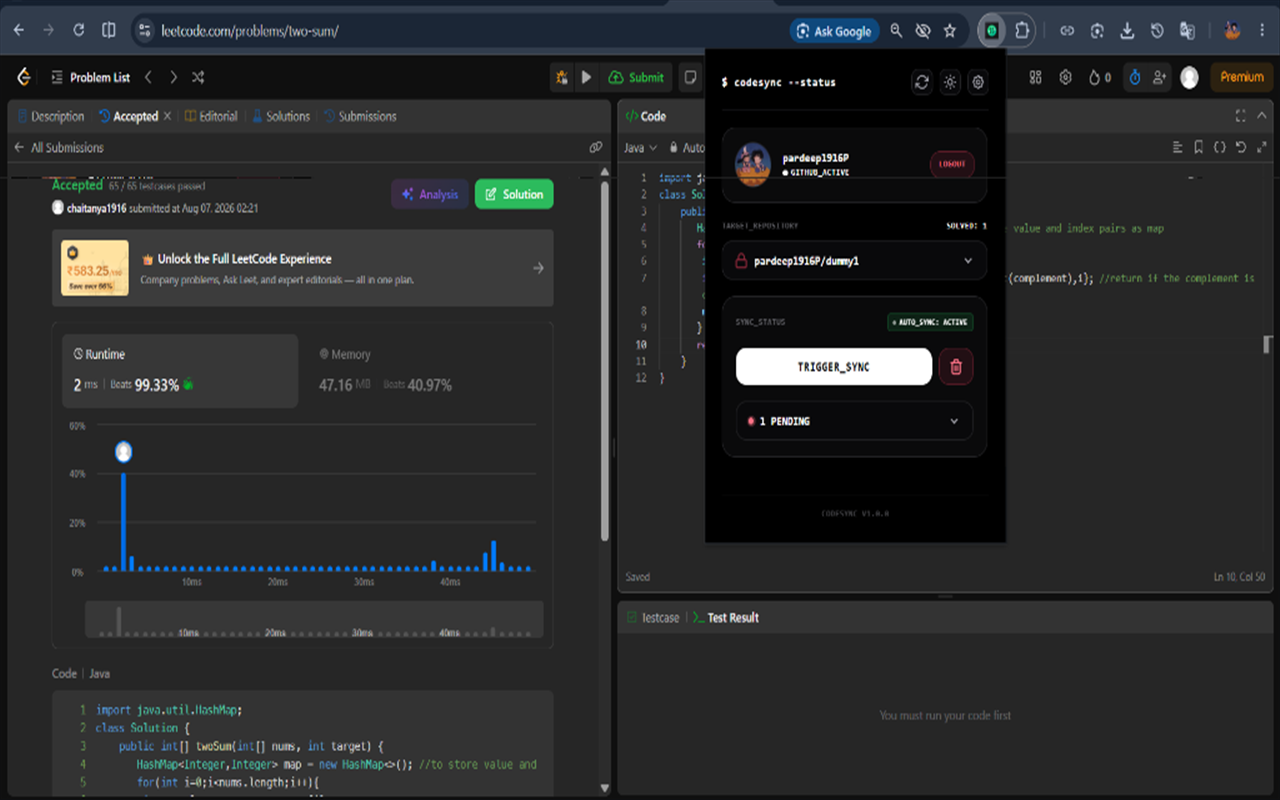
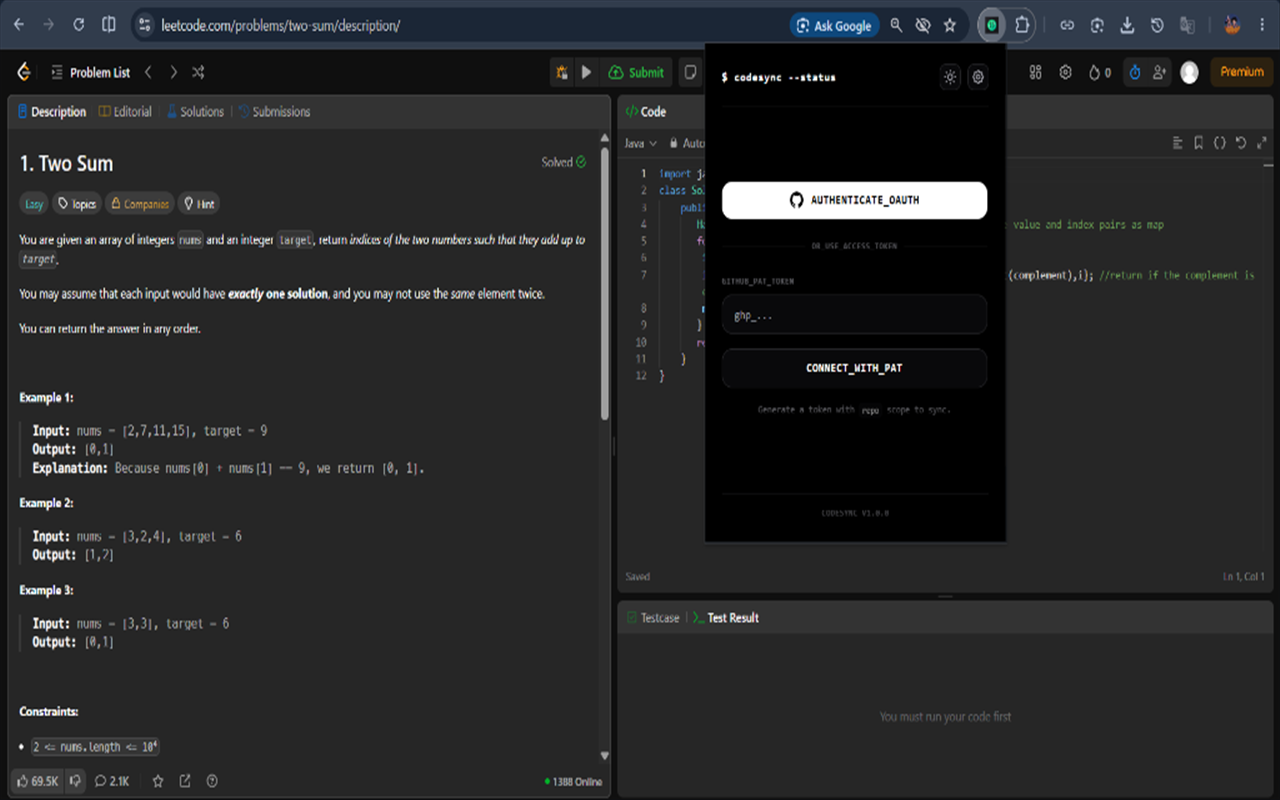
chore: organize store assets, update environment templates and developer guide

diff --git a/document.md b/document.md
@@ -47,6 +47,7 @@ We use **GitHub Actions** to automate our code verification and release packagin
 - **Repository Secrets**: To inject your OAuth credentials during automated builds, add them as secrets in your GitHub repository (**Settings** $\rightarrow$ **Secrets and variables** $\rightarrow$ **Actions**):
   - `VITE_GITHUB_CLIENT_ID`: Your GitHub OAuth App Client ID.
   - `VITE_GITHUB_CLIENT_SECRET`: Your GitHub OAuth App Client Secret.
+  - `CHROME_EXTENSION_ID`: Your Chrome Web Store Extension ID (`abdemcedoopepnjfjdbgomcandofbljd`).
 - **Local Development Environment**: For local testing, copy `.env.example` to `.env` and configure your local credentials. The `.env` file is excluded from Git tracking in `.gitignore` to keep credentials secure.
 
 ---
